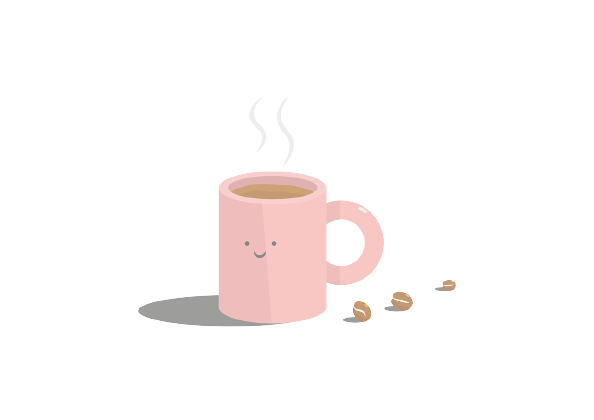
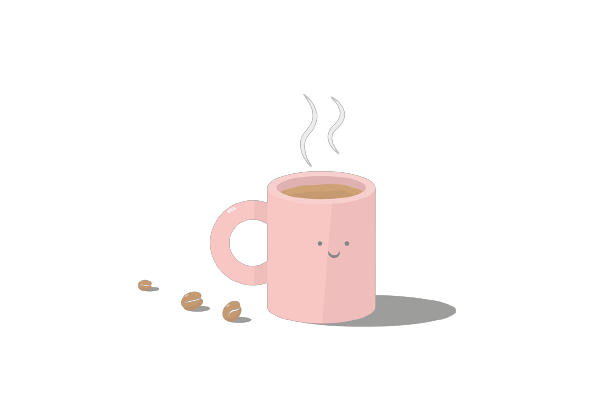
atualização do css

diff --git a/1_tela_login/src/styles.css b/1_tela_login/src/styles.css
@@ -1,0 +1,63 @@
+#container {
+    display: flex;
+    flex-direction: row;
+    width: 1000px;
+    height: 500px;
+    margin: 50px auto auto auto;
+    background-color: red;
+    border-radius: 20px;
+}
+
+#left {
+    width: 50%;
+    height: 100%;
+    background-color: #D8D4F2;
+    border-radius: 20px;
+}
+
+#left-content {
+    width: 80%;
+    height: 80%;
+    margin-top: 40px;
+    margin-right: auto;
+    margin-left: auto;
+    display: flex;
+    flex-direction: column;
+    align-items: center;
+}
+
+h1 {
+    color: #795E4B;
+}
+
+form {
+    margin-top: 30px;
+    display: flex;
+    width: 100%;
+    height: 170px;
+    flex-direction: column;
+    justify-content: space-between;
+    align-items: center;
+}
+
+form input {
+    width: 100%;
+    padding: 15px 10px;
+    border: 3px solid rgba(132, 108, 91, 0.72);
+    border-radius: 15px;
+    background-color: #E0E5F0;
+    color: #846C5B;
+}
+
+form button {
+    padding: 15px 30px;
+    border: 3px solid rgba(132, 108, 91, 1);
+    border-radius: 15px;
+    background-color: #E0E5F0;
+    color: #846C5B;
+}
+
+#right {
+    width: 50%;
+    height: 100%;
+}

diff --git a/1_tela_login/src/index.html b/1_tela_login/src/index.html
@@ -3,20 +3,23 @@
 <head>
     <meta charset="UTF-8">
     <meta name="viewport" content="width=device-width, initial-scale=1.0">
+    <link rel="stylesheet" href="./styles.css">
     <title>Document</title>
 </head>
 <body>
-    <div>
-        <div>
-            <h1>Welcome Back</h1>
-            <form>
-                <input type="text" placeholder="username" name="username">
-                <input type="password" placeholder="password" name="password">
-                <button type="submit">Login</button>
-            </form>
+    <div id="container" class="flex-container">
+        <div id="left">
+            <div id="left-content">
+                <h1>Welcome Back</h1>
+                <form>
+                    <input type="text" placeholder="username" name="username">
+                    <input type="password" placeholder="password" name="password">
+                    <button type="submit">Login</button>
+                </form>
+            </div>
         </div>
-        <div>
-
+        <div id="right">
+            <img src="./images/coffee.png" alt="coffee">
         </div>
     </div>
 </body>
